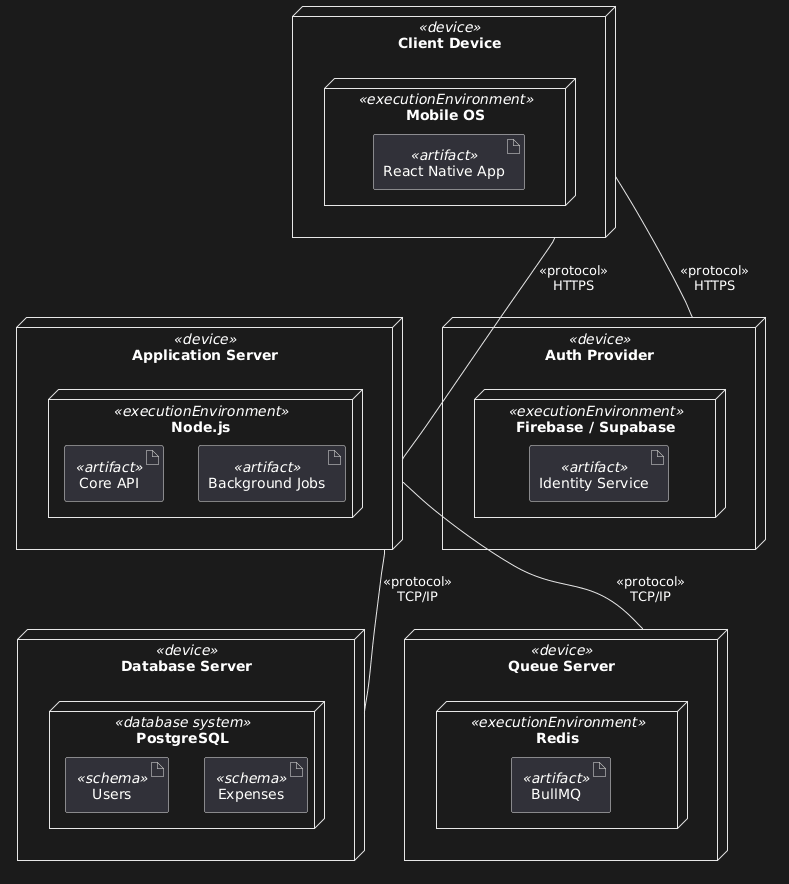
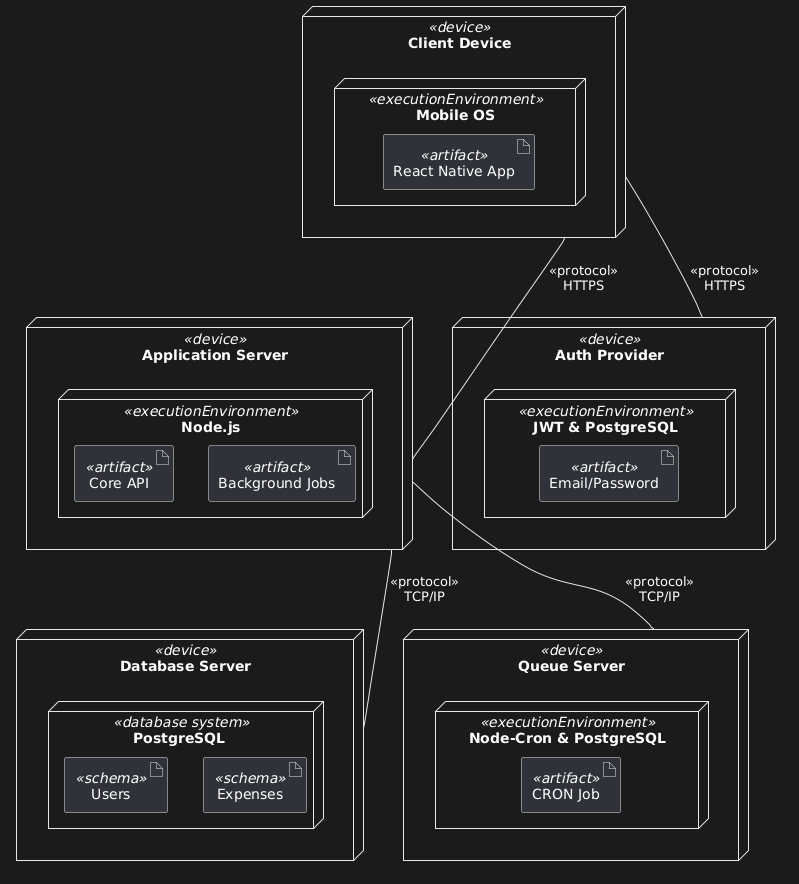
replace expected technologies to simpler ones

diff --git a/README.md b/README.md
@@ -207,9 +207,9 @@ Because the user enabled "Automatic Transaction Confirmation," the Tracker skips
 
 - Backend / API: Node.js: Again it's a solid and well documented language, besides that it's highly scalable and excellent at handling thousands of concurrent I/O operations (like users constantly syncing group balances).
 
-- Background Jobs (Automation): Redis + BullMQ (or AWS SQS), Redis acts as a lightning-fast queue. It reliably stores your recurring expense triggers and pushes them to your Node.js workers to process exactly when defined.
+- Background Jobs (Automation): For monthly recurring expenses, whe are using a simple CRON job running inside a Node.js process, that's going to use the node-cron, also creating a table in the database.
 
-- Authentication: Firebase Auth or Supabase Auth, don't build password hashing and token management from scratch. These services securely handle user sign-ups, logins, and session management out of the box.
+- Authentication: Using the technologies we already have, we are only going to use the bcrypt library to hash passwords and jsonwebtoken (JWT) for session management, so when a user sends email/password, Node.js checks the database, if they're valid, Node.js sends back a "token" (JWT), the app stores that token and sends it in the header for every future request.
 
 - Testing: We have used Maestro to produce automated unit and integration tests following the user acceptance tests we envisioned.
 